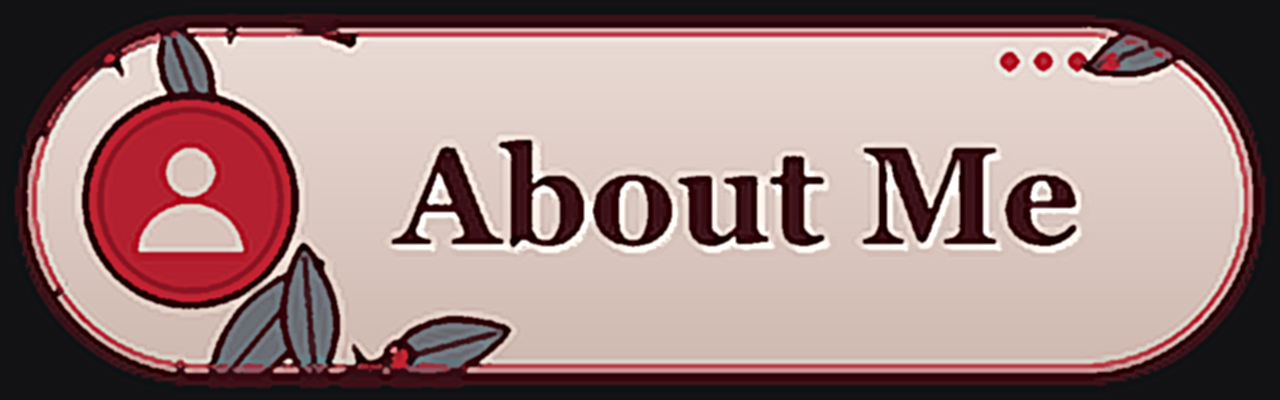
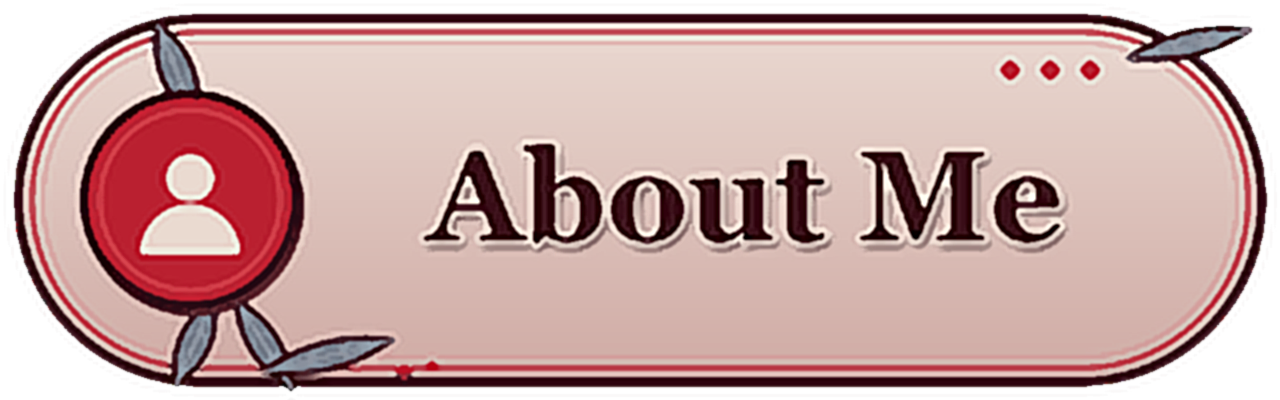
Redraw the Petals of Iron panels in high resolution (same design)

diff --git a/index.html b/index.html
@@ -4900,14 +4900,14 @@
         <h3 class="gallery-title">Petals of Iron set</h3>
         <h4 class="gallery-sub">Panels</h4>
         <div class="btn-grid">
-      <a class="proj-btn" href="images/twitch-large/about_me.png?v=9708e418" target="_blank" rel="noopener" title="Petals of Iron set - Twitch channel panel: About me">About me</a>
-      <a class="proj-btn" href="images/twitch-large/addons.png?v=2d008e73" target="_blank" rel="noopener" title="Petals of Iron set - Twitch channel panel: Addons">Addons</a>
-      <a class="proj-btn" href="images/twitch-large/chat_rules.png?v=f2322130" target="_blank" rel="noopener" title="Petals of Iron set - Twitch channel panel: Chat rules">Chat rules</a>
-      <a class="proj-btn" href="images/twitch-large/donation.png?v=aefb2653" target="_blank" rel="noopener" title="Petals of Iron set - Twitch channel panel: Donation">Donation</a>
-      <a class="proj-btn" href="images/twitch-large/faq.png?v=00cf45b4" target="_blank" rel="noopener" title="Petals of Iron set - Twitch channel panel: Faq">Faq</a>
-      <a class="proj-btn" href="images/twitch-large/links.png?v=6d2ab666" target="_blank" rel="noopener" title="Petals of Iron set - Twitch channel panel: Links">Links</a>
-      <a class="proj-btn" href="images/twitch-large/pc_setup.png?v=7aec5098" target="_blank" rel="noopener" title="Petals of Iron set - Twitch channel panel: Pc setup">Pc setup</a>
-      <a class="proj-btn" href="images/twitch-large/schedule.png?v=3114f2ac" target="_blank" rel="noopener" title="Petals of Iron set - Twitch channel panel: Schedule">Schedule</a>
+      <a class="proj-btn" href="images/twitch-large/about_me.png?v=921e9181" target="_blank" rel="noopener" title="Petals of Iron set - Twitch channel panel: About me">About me</a>
+      <a class="proj-btn" href="images/twitch-large/addons.png?v=a8405ef7" target="_blank" rel="noopener" title="Petals of Iron set - Twitch channel panel: Addons">Addons</a>
+      <a class="proj-btn" href="images/twitch-large/chat_rules.png?v=4d72bd2b" target="_blank" rel="noopener" title="Petals of Iron set - Twitch channel panel: Chat rules">Chat rules</a>
+      <a class="proj-btn" href="images/twitch-large/donation.png?v=6388039a" target="_blank" rel="noopener" title="Petals of Iron set - Twitch channel panel: Donation">Donation</a>
+      <a class="proj-btn" href="images/twitch-large/faq.png?v=1d5859e8" target="_blank" rel="noopener" title="Petals of Iron set - Twitch channel panel: Faq">Faq</a>
+      <a class="proj-btn" href="images/twitch-large/links.png?v=e02a8292" target="_blank" rel="noopener" title="Petals of Iron set - Twitch channel panel: Links">Links</a>
+      <a class="proj-btn" href="images/twitch-large/pc_setup.png?v=f6a756a3" target="_blank" rel="noopener" title="Petals of Iron set - Twitch channel panel: Pc setup">Pc setup</a>
+      <a class="proj-btn" href="images/twitch-large/schedule.png?v=46b17573" target="_blank" rel="noopener" title="Petals of Iron set - Twitch channel panel: Schedule">Schedule</a>
     </div>
         <h4 class="gallery-sub">Corner</h4>
         <div class="btn-grid">

diff --git a/tools/make_petals_panels.py b/tools/make_petals_panels.py
@@ -1,0 +1,168 @@
+#!/usr/bin/env python3
+"""Redraw the eight Petals of Iron channel panels as crisp high-resolution artwork (same design as the originals):
+pill with a red inner line, red medallion with a cream icon, bold serif title, grey-blue leaves and red berries.
+Draws at 4x and scales down, so edges stay clean.   python tools/make_petals_panels.py
+Writes images/twitch-large/<name>.png (2560x800) and images/twitch/<name>.png (320x100)."""
+import math
+from pathlib import Path
+
+from PIL import Image, ImageDraw, ImageFont, ImageFilter
+
+ROOT = Path(__file__).resolve().parent.parent
+W, H, K = 1280, 400, 4                       # design units, supersampling
+DARK = (52, 12, 22)
+RED = (186, 32, 48)
+RED2 = (214, 66, 76)
+CREAM = (234, 218, 208)
+GREY = (112, 120, 134)
+GREY2 = (150, 158, 170)
+TXT = (56, 12, 22)
+FONT = "C:/Windows/Fonts/georgiab.ttf"
+
+PANELS = [("about_me", "About Me", "person"), ("addons", "Addons", "gear"), ("chat_rules", "Chat Rules", "list"),
+          ("donation", "Donation", "dollar"), ("faq", "FAQ", "question"), ("links", "Links", "link"),
+          ("pc_setup", "PC Setup", "monitor"), ("schedule", "Schedule", "clock")]
+
+
+def s(v):
+    return int(round(v * K))
+
+
+def pts(seq):
+    return [(x * K, y * K) for x, y in seq]
+
+
+def bez(p0, p1, p2, n=24):
+    out = []
+    for i in range(n + 1):
+        t = i / n
+        out.append(((1 - t) ** 2 * p0[0] + 2 * (1 - t) * t * p1[0] + t * t * p2[0],
+                    (1 - t) ** 2 * p0[1] + 2 * (1 - t) * t * p1[1] + t * t * p2[1]))
+    return out
+
+
+def leaf(d, base, tip, width, fill=GREY, line=DARK):
+    bx, by = base
+    tx, ty = tip
+    dx, dy = tx - bx, ty - by
+    L = math.hypot(dx, dy)
+    nx, ny = -dy / L, dx / L
+    mid = ((bx + tx) / 2, (by + ty) / 2)
+    width *= 1.9
+    left = bez(base, (mid[0] + nx * width, mid[1] + ny * width), tip)
+    right = bez(tip, (mid[0] - nx * width, mid[1] - ny * width), base)
+    poly = pts(left + right)
+    d.polygon(poly, fill=fill)
+    d.line(poly + [poly[0]], fill=line, width=s(5), joint="curve")
+    v = pts([base, tip])
+    d.line(v, fill=GREY2, width=s(3))
+    for t in (0.35, 0.6):
+        px, py = bx + dx * t, by + dy * t
+        d.line(pts([(px, py), (px + nx * width * 0.35 + dx * 0.12, py + ny * width * 0.35 + dy * 0.12)]), fill=GREY2, width=s(2))
+        d.line(pts([(px, py), (px - nx * width * 0.35 + dx * 0.12, py - ny * width * 0.35 + dy * 0.12)]), fill=GREY2, width=s(2))
+
+
+def circle(d, c, r, fill=None, line=None, w=0):
+    d.ellipse([(c[0] - r) * K, (c[1] - r) * K, (c[0] + r) * K, (c[1] + r) * K], fill=fill, outline=line, width=s(w))
+
+
+def rrect(d, box, r, fill=None, line=None, w=0):
+    d.rounded_rectangle([box[0] * K, box[1] * K, box[2] * K, box[3] * K], radius=r * K, fill=fill, outline=line, width=s(w))
+
+
+def icon(d, kind, c):
+    x, y = c
+    f = CREAM
+    if kind == "person":
+        circle(d, (x, y - 22), 24, fill=f)
+        d.pieslice([s(x - 50), s(y + 4), s(x + 50), s(y + 104)], 180, 360, fill=f)
+    elif kind == "gear":
+        for i in range(8):
+            a = math.radians(i * 45)
+            cx, cy = x + math.cos(a) * 46, y + math.sin(a) * 46
+            d.polygon(pts([(cx + math.cos(a + 1.57) * 13 - math.cos(a) * 10, cy + math.sin(a + 1.57) * 13 - math.sin(a) * 10),
+                           (cx - math.cos(a + 1.57) * 13 - math.cos(a) * 10, cy - math.sin(a + 1.57) * 13 - math.sin(a) * 10),
+                           (cx - math.cos(a + 1.57) * 10 + math.cos(a) * 9, cy - math.sin(a + 1.57) * 10 + math.sin(a) * 9),
+                           (cx + math.cos(a + 1.57) * 10 + math.cos(a) * 9, cy + math.sin(a + 1.57) * 10 + math.sin(a) * 9)]), fill=f)
+        circle(d, c, 40, fill=f)
+        circle(d, c, 17, fill=RED)
+    elif kind == "list":
+        for i, yy in enumerate((-34, 0, 34)):
+            circle(d, (x - 46, y + yy), 7, fill=f)
+            rrect(d, (x - 26, y + yy - 6, x + 52, y + yy + 6), 6, fill=f)
+    elif kind == "dollar":
+        d.text((x * K, (y + 2) * K), "$", font=ImageFont.truetype(FONT, s(120)), fill=f, anchor="mm")
+    elif kind == "question":
+        d.text((x * K, (y + 2) * K), "?", font=ImageFont.truetype(FONT, s(124)), fill=f, anchor="mm")
+    elif kind == "link":
+        rrect(d, (x - 62, y - 24, x + 8, y + 24), 24, line=f, w=11)
+        rrect(d, (x - 8, y - 24, x + 62, y + 24), 24, line=f, w=11)
+        rrect(d, (x - 20, y - 7, x + 20, y + 7), 6, fill=f)
+    elif kind == "monitor":
+        rrect(d, (x - 56, y - 50, x + 56, y + 26), 10, line=f, w=10)
+        d.line(pts([(x, y + 28), (x, y + 48)]), fill=f, width=s(12))
+        rrect(d, (x - 30, y + 44, x + 30, y + 56), 5, fill=f)
+    elif kind == "clock":
+        circle(d, c, 50, line=f, w=10)
+        d.line(pts([(x, y), (x, y - 30)]), fill=f, width=s(10))
+        d.line(pts([(x, y), (x + 24, y + 14)]), fill=f, width=s(10))
+        circle(d, c, 6, fill=f)
+
+
+def panel(title, kind):
+    im = Image.new("RGBA", (W * K, H * K), (0, 0, 0, 0))
+    d = ImageDraw.Draw(im)
+    # pill body with a vertical gradient
+    body = Image.new("RGBA", (W * K, H * K), (0, 0, 0, 0))
+    g = Image.new("RGBA", (1, H * K))
+    for y in range(H * K):
+        t = y / (H * K)
+        g.putpixel((0, y), (int(236 - 30 * t), int(220 - 52 * t), int(212 - 50 * t), 255))
+    g = g.resize((W * K, H * K))
+    mask = Image.new("L", (W * K, H * K), 0)
+    ImageDraw.Draw(mask).rounded_rectangle([s(14), s(14), s(W - 14), s(H - 14)], radius=s(186), fill=255)
+    body.paste(g, (0, 0), mask)
+    im.alpha_composite(body)
+    d = ImageDraw.Draw(im)
+    rrect(d, (14, 14, W - 14, H - 14), 186, line=DARK, w=9)
+    rrect(d, (30, 30, W - 30, H - 30), 170, line=RED, w=4)
+    rrect(d, (42, 42, W - 42, H - 42), 158, line=(214, 150, 150), w=2)
+    # leaves
+    leaf(d, (196, 120), (158, 24), 17)
+    leaf(d, (214, 300), (176, 384), 16)
+    leaf(d, (236, 300), (292, 388), 15)
+    leaf(d, (262, 372), (392, 340), 14)
+    leaf(d, (1128, 58), (1250, 30), 12)
+    for dx in (0, 40, 80):
+        circle(d, (1010 + dx, 70), 9, fill=RED)
+    circle(d, (404, 372), 7, fill=RED)
+    circle(d, (432, 366), 5, fill=RED)
+    # medallion
+    cx, cy = 190, 200
+    circle(d, (cx + 4, cy + 6), 110, fill=(96, 40, 48))
+    circle(d, (cx, cy), 110, fill=RED, line=DARK, w=9)
+    circle(d, (cx, cy), 92, line=RED2, w=4)
+    icon(d, kind, (cx, cy))
+    # title with a cream edge and a soft shadow
+    font = ImageFont.truetype(FONT, s(150 if len(title) < 8 else 128))
+    tx, ty = 745 * K, 196 * K
+    sh = Image.new("RGBA", im.size, (0, 0, 0, 0))
+    ImageDraw.Draw(sh).text((tx + s(5), ty + s(7)), title, font=font, fill=(40, 6, 14, 150), anchor="mm")
+    im.alpha_composite(sh.filter(ImageFilter.GaussianBlur(s(3))))
+    d = ImageDraw.Draw(im)
+    d.text((tx, ty), title, font=font, fill=TXT, anchor="mm", stroke_width=s(4), stroke_fill=CREAM)
+    d.text((tx, ty), title, font=font, fill=TXT, anchor="mm")
+    return im
+
+
+def main():
+    big, small = ROOT / "images" / "twitch-large", ROOT / "images" / "twitch"
+    for name, title, kind in PANELS:
+        im = panel(title, kind)
+        im.resize((W * 2, H * 2), Image.LANCZOS).save(big / f"{name}.png", optimize=True)
+        im.resize((320, 100), Image.LANCZOS).save(small / f"{name}.png", optimize=True)
+        print(name)
+
+
+if __name__ == "__main__":
+    main()
